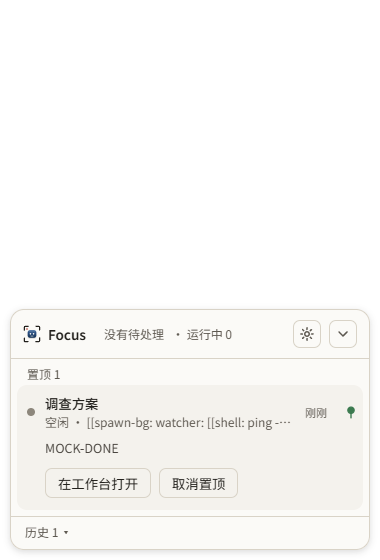
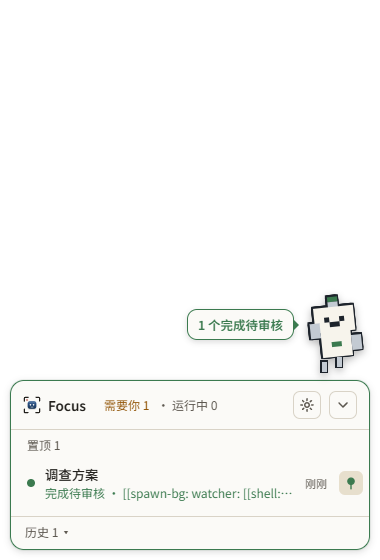
feat(studio): a pinned Focus task is one line, open only while it waits for the person
Pinned tasks showed their latest reply at all times, which said too much. The row now gives the status and the
task's 说明; the detail opens for an approval, a question or a plan, and closes once dealt with. The 取消置顶 button
and 我知道了 go (the row's pin unpins; finished work is looked at in the workbench). None of a pinned task's sessions
shows under 进行中 any more, and the pinned row takes the session that waits for the person, else one that runs,
else the latest.

diff --git a/studio/e2e/tests/focus-subagents.spec.ts b/studio/e2e/tests/focus-subagents.spec.ts
@@ -4,7 +4,8 @@ import { launchStudio, screenshot, type Studio } from "./studio.js";
 
 // 2026-10-21: a Claude session that ended its turn while its background subagents still run is 进行中, not 完成待审核
 // (Focus had called it finished — and the robot come out — each time the session took a moment's turn); its running
-// subagents fold to「▸ N」 (方案 D). A task pinned in Focus stays on top with its detail open. Opened to deal with it
+// subagents fold to「▸ N」 (方案 D). A task pinned in Focus stays on top in one line, its detail open only while it
+// waits for the person (10-22). Opened to deal with it
 // (from Focus, or from the board), a long reply offers 「按 ↑ 回到本轮回复开始」.
 
 let studio: Studio | undefined;
@@ -53,31 +54,56 @@ test("Focus: waiting for its subagents is 进行中 with ▸ N, finished once th
   await expect(sub).toContainText("已跑");
   await screenshot(app, "stage-18", "S18-focus-subagents", focus, "focus");
 
-  // The subagent ends and the session reports: now it is finished work to look at.
-  await expect(working).toHaveCount(0, { timeout: 90_000 });
-  const entry = focus.getByTestId("focus-entry");
-  await expect(entry).toHaveCount(1);
-  await expect(entry).toContainText("完成待审核");
-
-  // 置顶: on top, its detail open, listed once.
-  await entry.hover();
-  await entry.getByTestId("focus-pin").click();
+  // 置顶 while it works: on top in one line, no longer under 进行中 (10-22).
+  await working.hover();
+  await working.getByTestId("focus-pin").click();
   const pinned = focus.getByTestId("focus-pinned");
   await expect(pinned).toContainText("调查方案");
-  await expect(pinned).toContainText("完成待审核");
-  await expect(pinned.getByTestId("focus-snippet")).toBeVisible();
-  await expect(entry).toHaveCount(0);
-  // 我知道了: reviewed, still pinned, still open.
-  await pinned.getByTestId("focus-done").click();
-  await expect(pinned).toContainText("空闲");
-  await expect(pinned.getByTestId("focus-snippet")).toBeVisible();
-  await expect(focus.getByTestId("focus-needs")).toHaveText("没有待处理");
-  await screenshot(app, "stage-18", "S18-focus-pinned", focus, "focus");
+  await expect(pinned).toContainText("等子 agent");
+  await expect(focus.getByTestId("focus-working")).toHaveCount(0);
+  await expect(pinned.getByTestId("focus-snippet")).toHaveCount(0);
   // Kept per machine.
   await expect.poll(() => focus.evaluate(() => JSON.parse(localStorage.getItem("amo.focusPinned") ?? "[]").length)).toBe(1);
 
-  await pinned.getByTestId("focus-unpin").click();
+  // The subagent ends and the session reports: finished work, still one line (only an approval or a question opens it).
+  await expect(pinned).toContainText("完成待审核", { timeout: 90_000 });
+  await expect(pinned.getByTestId("focus-snippet")).toHaveCount(0);
+  const entry = focus.getByTestId("focus-entry");
+  await expect(entry).toHaveCount(0);
+  await screenshot(app, "stage-18", "S18-focus-pinned", focus, "focus");
+
+  // Unpinned, it is finished work in the list again.
+  await pinned.getByTestId("focus-pin").click();
   await expect(pinned).toHaveCount(0);
+  await expect(entry).toHaveCount(1);
+  await expect(entry).toContainText("完成待审核");
+});
+
+test("Focus: a pinned task opens its detail only while it waits for an approval (10-22)", async () => {
+  studio = await launchStudio();
+  const ws = await studio.api<Workspace>("POST", "/api/workspaces", { path: studio.workspace("alpha") });
+  const focus = await openFocus(studio);
+  const { task } = await studio.api<{ task: Task }>("POST", "/api/tasks", {
+    title: "掉落表校验",
+    workspaceId: ws.id,
+    firstSession: { profileId: "codex-mock", text: "[[shell: cmd /c echo pinned-approval]]" },
+  });
+  const entry = focus.getByTestId("focus-entry");
+  await expect(entry).toContainText("待批准", { timeout: 30_000 });
+  await entry.hover();
+  await entry.getByTestId("focus-pin").click();
+
+  // Pinned, the approval is dealt with on top, its command shown.
+  const pinned = focus.getByTestId("focus-pinned");
+  await expect(pinned).toContainText("待批准");
+  await expect(pinned.getByTestId("focus-snippet")).toContainText("cmd /c echo pinned-approval");
+  await expect(entry).toHaveCount(0);
+  await pinned.getByRole("button", { name: "批准", exact: true }).click();
+
+  // Approved: back to one line.
+  await expect(pinned.getByTestId("focus-snippet")).toHaveCount(0, { timeout: 30_000 });
+  await expect(pinned).not.toContainText("待批准");
+  expect(await focus.evaluate(() => JSON.parse(localStorage.getItem("amo.focusPinned") ?? "[]"))).toEqual([task.id]);
 });
 
 /** A message the mock model echoes back, long enough that its reply starts far above the bottom. */

diff --git a/studio/packages/ui/src/focus/FocusApp.tsx b/studio/packages/ui/src/focus/FocusApp.tsx
@@ -211,17 +211,19 @@ export function FocusApp() {
   const { state, link } = host;
   const needs = waiting.length + finished.length + asks.length + proposals.length + plans.length + relays.length;
   const running = state.sessions.filter((s) => !s.archivedAt && s.status === "running").length;
-  // 置顶 (2026-10-21): each pinned task's latest session, on top with its detail open; listed nowhere else.
+  // 置顶 (2026-10-21): one session of each pinned task, on top; listed nowhere else. Its task's other sessions do not
+  // show under 进行中 either (10-22).
   const pinned = pins.ids.flatMap((id) => {
     const task = state.tasks.find((t) => t.id === id && !t.archivedAt);
     const session = task && pinnedSession(task, state.sessions);
     return session ? [session] : [];
   });
   const isPinned = (s: Session) => pinned.includes(s);
+  const pinnedTask = (s: Session) => !!s.taskId && pinned.some((p) => p.taskId === s.taskId);
   // 进行中 (2026-10-20): what is working now, so the open panel tells what goes on, not only what waits. Also a session
   // waiting for subagents of its own (2026-10-21).
   const working = state.sessions
-    .filter((s) => !s.archivedAt && s.kind !== "sub" && (s.status === "running" || runningSubs(s.id, subs).length > 0) && !needsPerson(s.status) && !isPinned(s))
+    .filter((s) => !s.archivedAt && s.kind !== "sub" && (s.status === "running" || runningSubs(s.id, subs).length > 0) && !needsPerson(s.status) && !pinnedTask(s))
     .sort((a, b) => b.updatedAt.localeCompare(a.updatedAt));
   const shown = list.filter((s) => !isPinned(s));
   const openId = open && shown.some((s) => s.id === open) ? open : (shown[0]?.id ?? null);
@@ -348,7 +350,7 @@ export function FocusApp() {
                       subsOpen={subsOpen.has(s.id)}
                       onToggleSubs={toggleSubs(s)}
                       onUnpin={() => s.taskId && pins.toggle(s.taskId)}
-                      onDone={review && isToReview(s, waiting) ? () => noteSeen([s.id]) : undefined}
+                      detail={waiting.includes(s)}
                       goTo={review || waiting.includes(s) ? goToDeal : goTo}
                     />
                   );

diff --git a/studio/packages/ui/src/focus/pins.ts b/studio/packages/ui/src/focus/pins.ts
@@ -1,8 +1,9 @@
 import { useCallback, useEffect, useState } from "react";
 import type { Session, Task } from "@amo-studio/protocol";
+import { needsPerson } from "../lib/status.js";
 
-// Focus 置顶 (2026-10-21): tasks the person keeps at the top of Focus, their latest session's detail always open,
-// whether or not anything waits. And which sessions show their running subagents (方案 D: folded to「▸ N」 until
+// Focus 置顶 (2026-10-21): tasks the person keeps at the top of Focus, one line on what their session does; its detail
+// opens only while it waits for the person (10-22: always open said too much). And which sessions show their running subagents (方案 D: folded to「▸ N」 until
 // opened). Both per machine in localStorage, like where Focus sits.
 
 export const PINNED_KEY = "amo.focusPinned";
@@ -53,11 +54,15 @@ export function useStoredIds(key: string): { ids: readonly string[]; has(id: str
   };
 }
 
-/** The session a pinned task shows: its latest live one that is not a subagent. */
+/**
+ * The session a pinned task shows, of its live ones that are not subagents: one waiting for the person (an approval, a
+ * question, a plan) first, then one that runs, then the latest (10-22: the task's other sessions are not listed apart).
+ */
 export function pinnedSession(task: Pick<Task, "id">, sessions: readonly Session[]): Session | undefined {
+  const rank = (s: Session) => (needsPerson(s.status) ? 0 : s.status === "running" ? 1 : 2);
   return sessions
     .filter((s) => s.taskId === task.id && s.kind !== "sub" && !s.archivedAt)
-    .sort((a, b) => b.updatedAt.localeCompare(a.updatedAt))[0];
+    .sort((a, b) => rank(a) - rank(b) || b.updatedAt.localeCompare(a.updatedAt))[0];
 }
 
 /** 「已跑 5 分钟」: how long a subagent has been running, from when it started. */

diff --git a/studio/packages/ui/src/focus/FocusWorking.tsx b/studio/packages/ui/src/focus/FocusWorking.tsx
@@ -159,7 +159,7 @@ export function WorkingEntry({
   );
 }
 
-/** A pinned task's session: on top, whatever it is doing, with its detail open. */
+/** A pinned task's session: on top, one line on what it does; its detail opens while it waits for the person. */
 export function PinnedEntry({
   link,
   session,
@@ -171,7 +171,7 @@ export function PinnedEntry({
   subsOpen,
   onToggleSubs,
   onUnpin,
-  onDone,
+  detail,
   goTo,
 }: {
   link: HostLink;
@@ -184,18 +184,14 @@ export function PinnedEntry({
   subsOpen: boolean;
   onToggleSubs(): void;
   onUnpin(): void;
-  /** 我知道了, when it is finished work to look at. */
-  onDone?: (() => void) | undefined;
+  /** It waits for an approval, an answer or a plan: dealt with right here. */
+  detail: boolean;
   goTo: GoTo;
 }) {
   return (
-    <div className="focus-entry open pinned" data-testid="focus-pinned">
+    <div className={detail ? "focus-entry open pinned" : "focus-entry pinned"} data-testid="focus-pinned">
       <Row session={session} title={title} line={`${look.label} · ${brief}`} look={look} ring={ring} subs={subs} subsOpen={subsOpen} onToggleSubs={onToggleSubs} pinned onPin={onUnpin} goTo={goTo} />
-      <FocusDetail link={link} session={session} {...(onDone ? { onDone } : {})}>
-        <button type="button" className="focus-btn" onClick={onUnpin} data-testid="focus-unpin">
-          取消置顶
-        </button>
-      </FocusDetail>
+      {detail && <FocusDetail link={link} session={session} />}
     </div>
   );
 }

diff --git a/studio/packages/ui/src/focus/pins.test.ts b/studio/packages/ui/src/focus/pins.test.ts
@@ -17,6 +17,16 @@ describe("Focus 置顶", () => {
     expect(pinnedSession({ id: "none" }, sessions)).toBeUndefined();
   });
 
+  it("shows the session that waits for the person first, then one that runs (10-22)", () => {
+    const sessions = [
+      at("latest", "2026-10-21T12:00:00.000Z", { status: "idle" }),
+      at("runs", "2026-10-21T10:00:00.000Z", { status: "running" }),
+      at("asks", "2026-10-21T09:00:00.000Z", { status: "awaiting-approval" }),
+    ];
+    expect(pinnedSession({ id: "t" }, sessions)?.id).toBe("asks");
+    expect(pinnedSession({ id: "t" }, sessions.slice(0, 2))?.id).toBe("runs");
+  });
+
   it("says how long a subagent has run", () => {
     const now = Date.parse("2026-10-21T09:10:00.000Z");
     expect(ranFor("2026-10-21T09:09:20.000Z", now)).toBe("已跑 40 秒");

diff --git a/studio/HANDOFF.md b/studio/HANDOFF.md
@@ -28,6 +28,7 @@
 >     - e2e `focus-subagents.spec.ts`（`[[spawn-bg: …[[shell: ping …]]]]` + 全部允许，让子 agent 跑一会儿）。顺带发现：新会话开始前会空闲一瞬，Focus 会短暂多一条「完成待审核」（旧行为，没改；测试要等到回复出来）。
   - **agent 进程降一档优先级**（晚上，用户要的）：Claude Code（SDK 的 `spawnClaudeCodeProcess`，`runtime/priority.ts` 的 `spawnClaudeProcess`，命令、管道、abort 信号同 SDK 自己的启动）、Codex app-server、DSH 启动后设 below normal，Windows 上它们起的 git / 构建 / Bash 命令跟着继承（单测验证了继承）。自己启动就拿不到 SDK 收集的 stderr 结尾，所以 Claude 非 0 退出时把 stderr 结尾写进 host.log。`AMO_STUDIO_AGENT_PRIORITY=normal` 可关。维护终端、「交给终端」不降。改了 Host，**等重启**。
   - **改渠道的型号列表后，对话和设置里的型号不跟着变**（10-22 用户报的，DSH 渠道）：界面的型号缓存（`lib/choices.ts`）只在 `modelPrefs` 变化时清，改渠道发的是 `profiles.updated`；现在收到它也清，所有选择器重新问。Codex 渠道 Host 端的 10 分钟缓存键加上渠道的固定型号。e2e 在 `model-channels.spec.ts` 的 DSH 那条末尾（没修时会挂）。界面部分 Ctrl+R 生效，Codex 那处要重启 Host。
+  - **Focus 置顶收成一行**（10-22 用户要的）：平时只显示状态（进行中 / 等子 agent / 完成待审核 / 空闲 · 说明），只有等审批、等回答、计划待审阅时展开详情；去掉「取消置顶」大按钮和置顶里的「我知道了」（完成待审核点行去工作台看）。置顶的任务所有会话都不再出现在「进行中」；置顶显示的会话先挑等你的，再挑在跑的，再挑最新的（`pins.ts` 的 `pinnedSession`）。纯界面，Ctrl+R 生效。
   - **Focus 历史也能置顶**（10-22 用户要的）：每条历史右边同一个图钉（悬停出现，任务已置顶时常亮、再点取消），会话或任务已不在 / 已归档的不给。e2e `focus-history.spec.ts`。纯界面，Ctrl+R 生效。
   - **git 扫描实测**（project_mining 5.2 万文件，`git status` 每次）：fsmonitor 开 245 ms、整机几乎不加负载；关 fsmonitor（bashEditDiff 的做法）683 ms、多占约 11.5 个核、内核 22%；关 fsmonitor + `core.preloadIndex=false` 858 ms、几乎不加负载。所以将来要重开 bashEditDiff，可以给 agent 注入 `GIT_CONFIG_COUNT` 设 `core.preloadIndex=false`。project_mining 本来就开着 fsmonitor 和 untrackedCache；用户同意后给 `project_mining_dev`、`project_mining_dev2` 开了 `core.fsmonitor`（只改它们自己的 `.git/config`）。
 > - S15-L（10-16）：Claude 的 /loop 和订阅额度上限——有 loop 唤醒或在等额度时不关进程，额度恢复后 CLI 没续上由 Studio 补一条；输入框上方的条和会话列表的「loop · 时间」「等额度 · 时间」；用 SendMessage 恢复的子 agent 找回子会话（迁移 13）。**待确认**：下次真碰到额度上限后看 host.log 的「went on after its usage limit (turn started by cli|studio|person)」，判断 SDK 模式下 CLI 会不会自己续。
